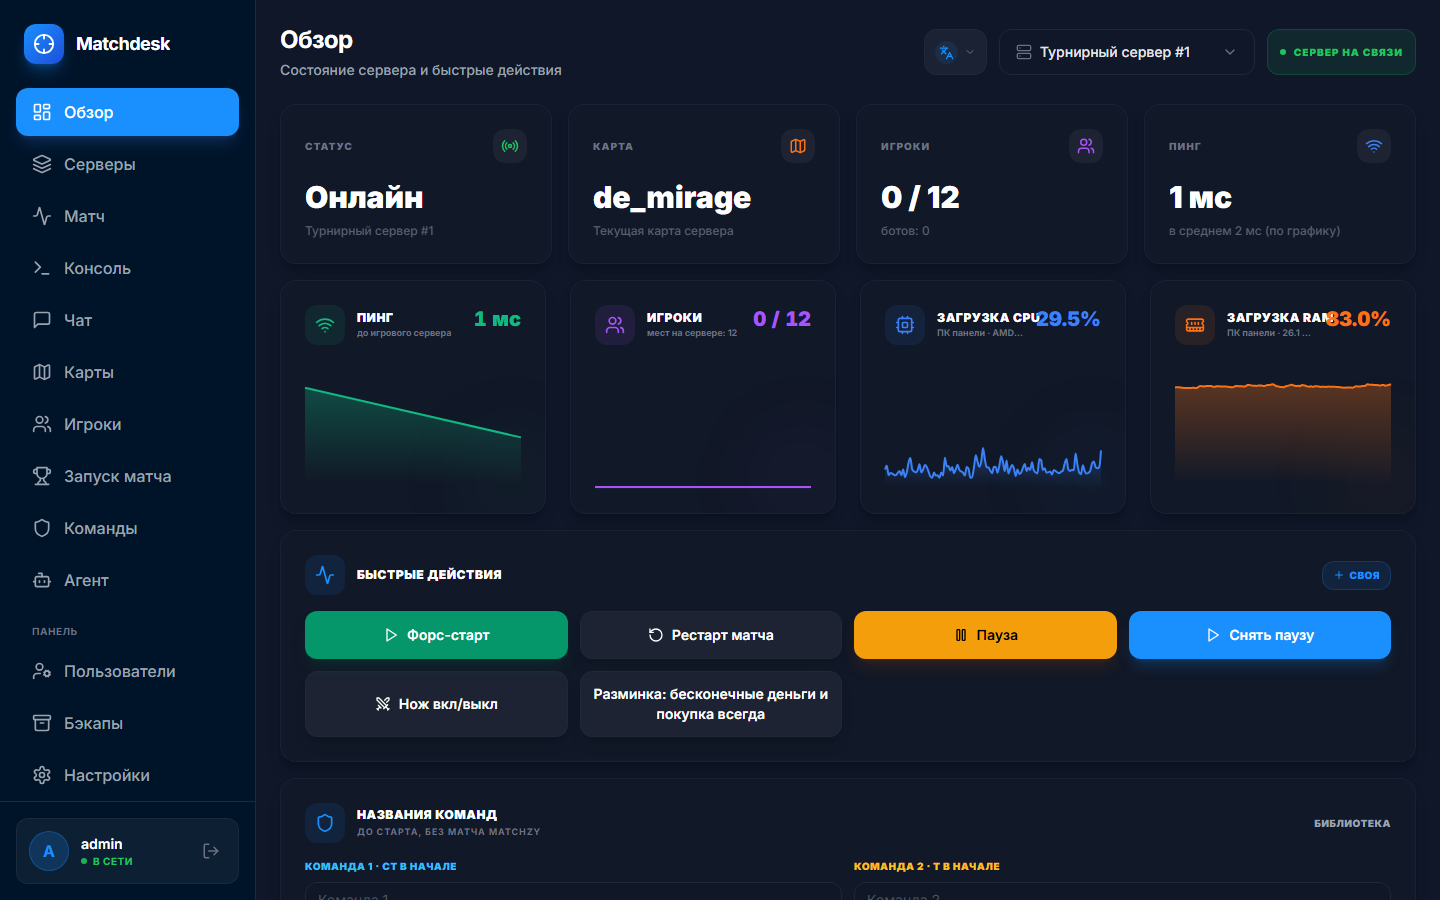
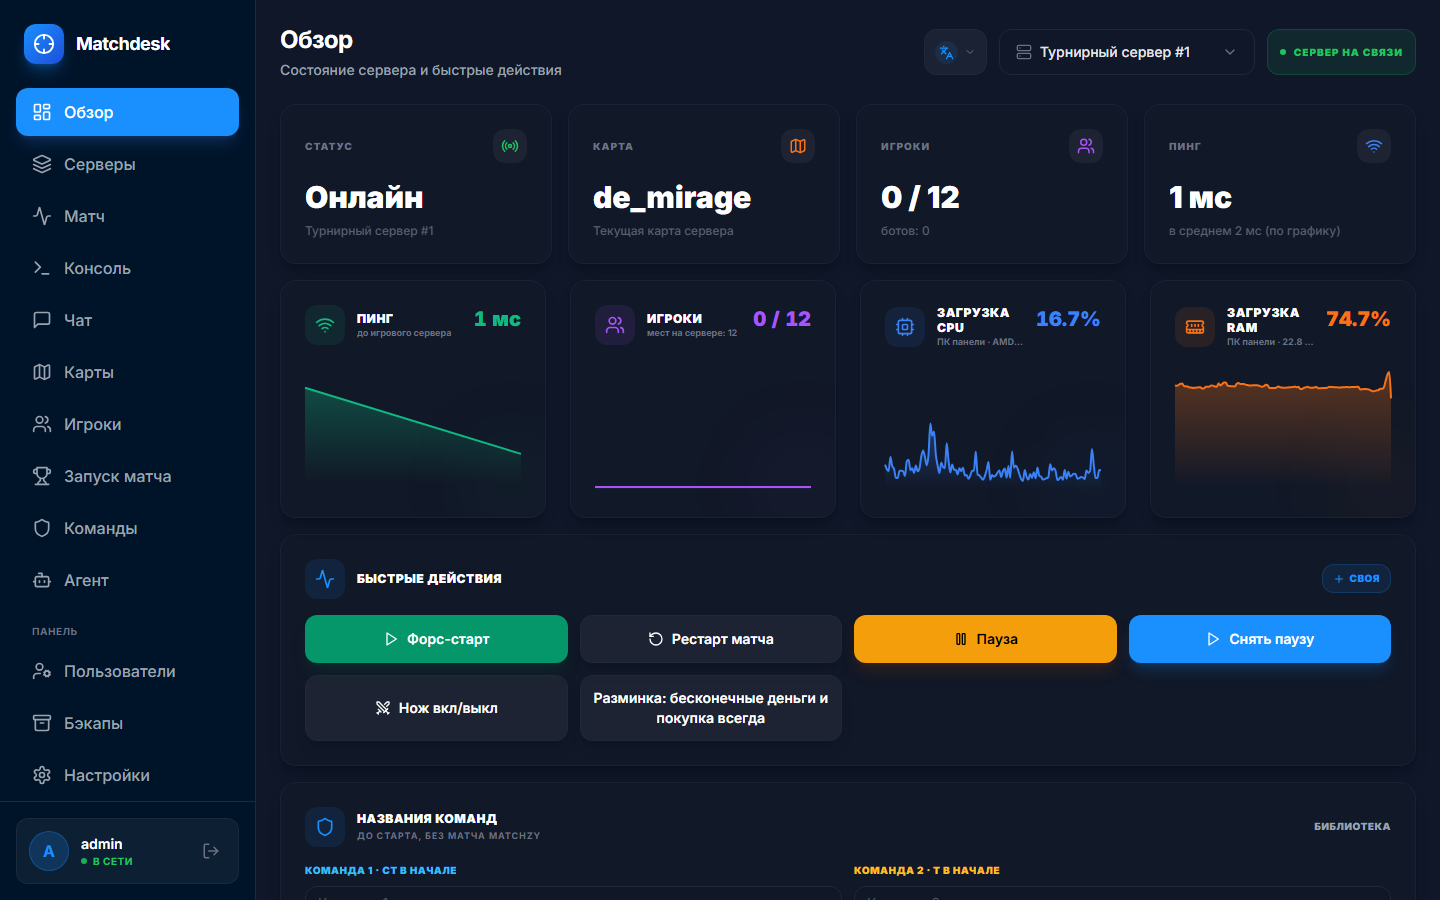
Overview: chart card titles no longer run into the values
Titles wrap at spaces, and the four chart cards share a row only from 1400px;
narrower screens get two per row.

diff --git a/src/components/server/dashboard.tsx b/src/components/server/dashboard.tsx
@@ -148,7 +148,8 @@ export function ServerDashboard({ serverInfo, history, onSendCommand, onNavigate
       </div>
 
       {/* Real-time monitoring cards, as the Quatrix CPU / RAM / Network / Disk cards */}
-      <div className="order-3 md:order-2 grid grid-cols-1 md:grid-cols-2 xl:grid-cols-4 gap-4 md:gap-6">
+      {/* Four in a row only from 1400px: narrower, the titles and values do not fit side by side */}
+      <div className="order-3 md:order-2 grid grid-cols-1 md:grid-cols-2 min-[1400px]:grid-cols-4 gap-4 md:gap-6">
         <ChartCard
           title={t('Пинг', 'Ping')}
           subtitle={t('до игрового сервера', 'to the game server')}
@@ -412,7 +413,8 @@ function ChartCard({ title, subtitle, value, unit, icon, tone, data, max }: {
           <div className="flex items-center gap-3 min-w-0">
             <div className={cn('p-2.5 rounded-xl transition-colors shrink-0', c.chip)}>{icon}</div>
             <div className="min-w-0">
-              <h3 className="text-xs font-black text-white uppercase tracking-wider whitespace-nowrap">{title}</h3>
+              {/* Wraps at spaces instead of running into the value */}
+              <h3 className="text-xs font-black text-white uppercase tracking-wider leading-tight">{title}</h3>
               <p className="text-[9px] text-gray-500 font-bold truncate">{subtitle}</p>
             </div>
           </div>
